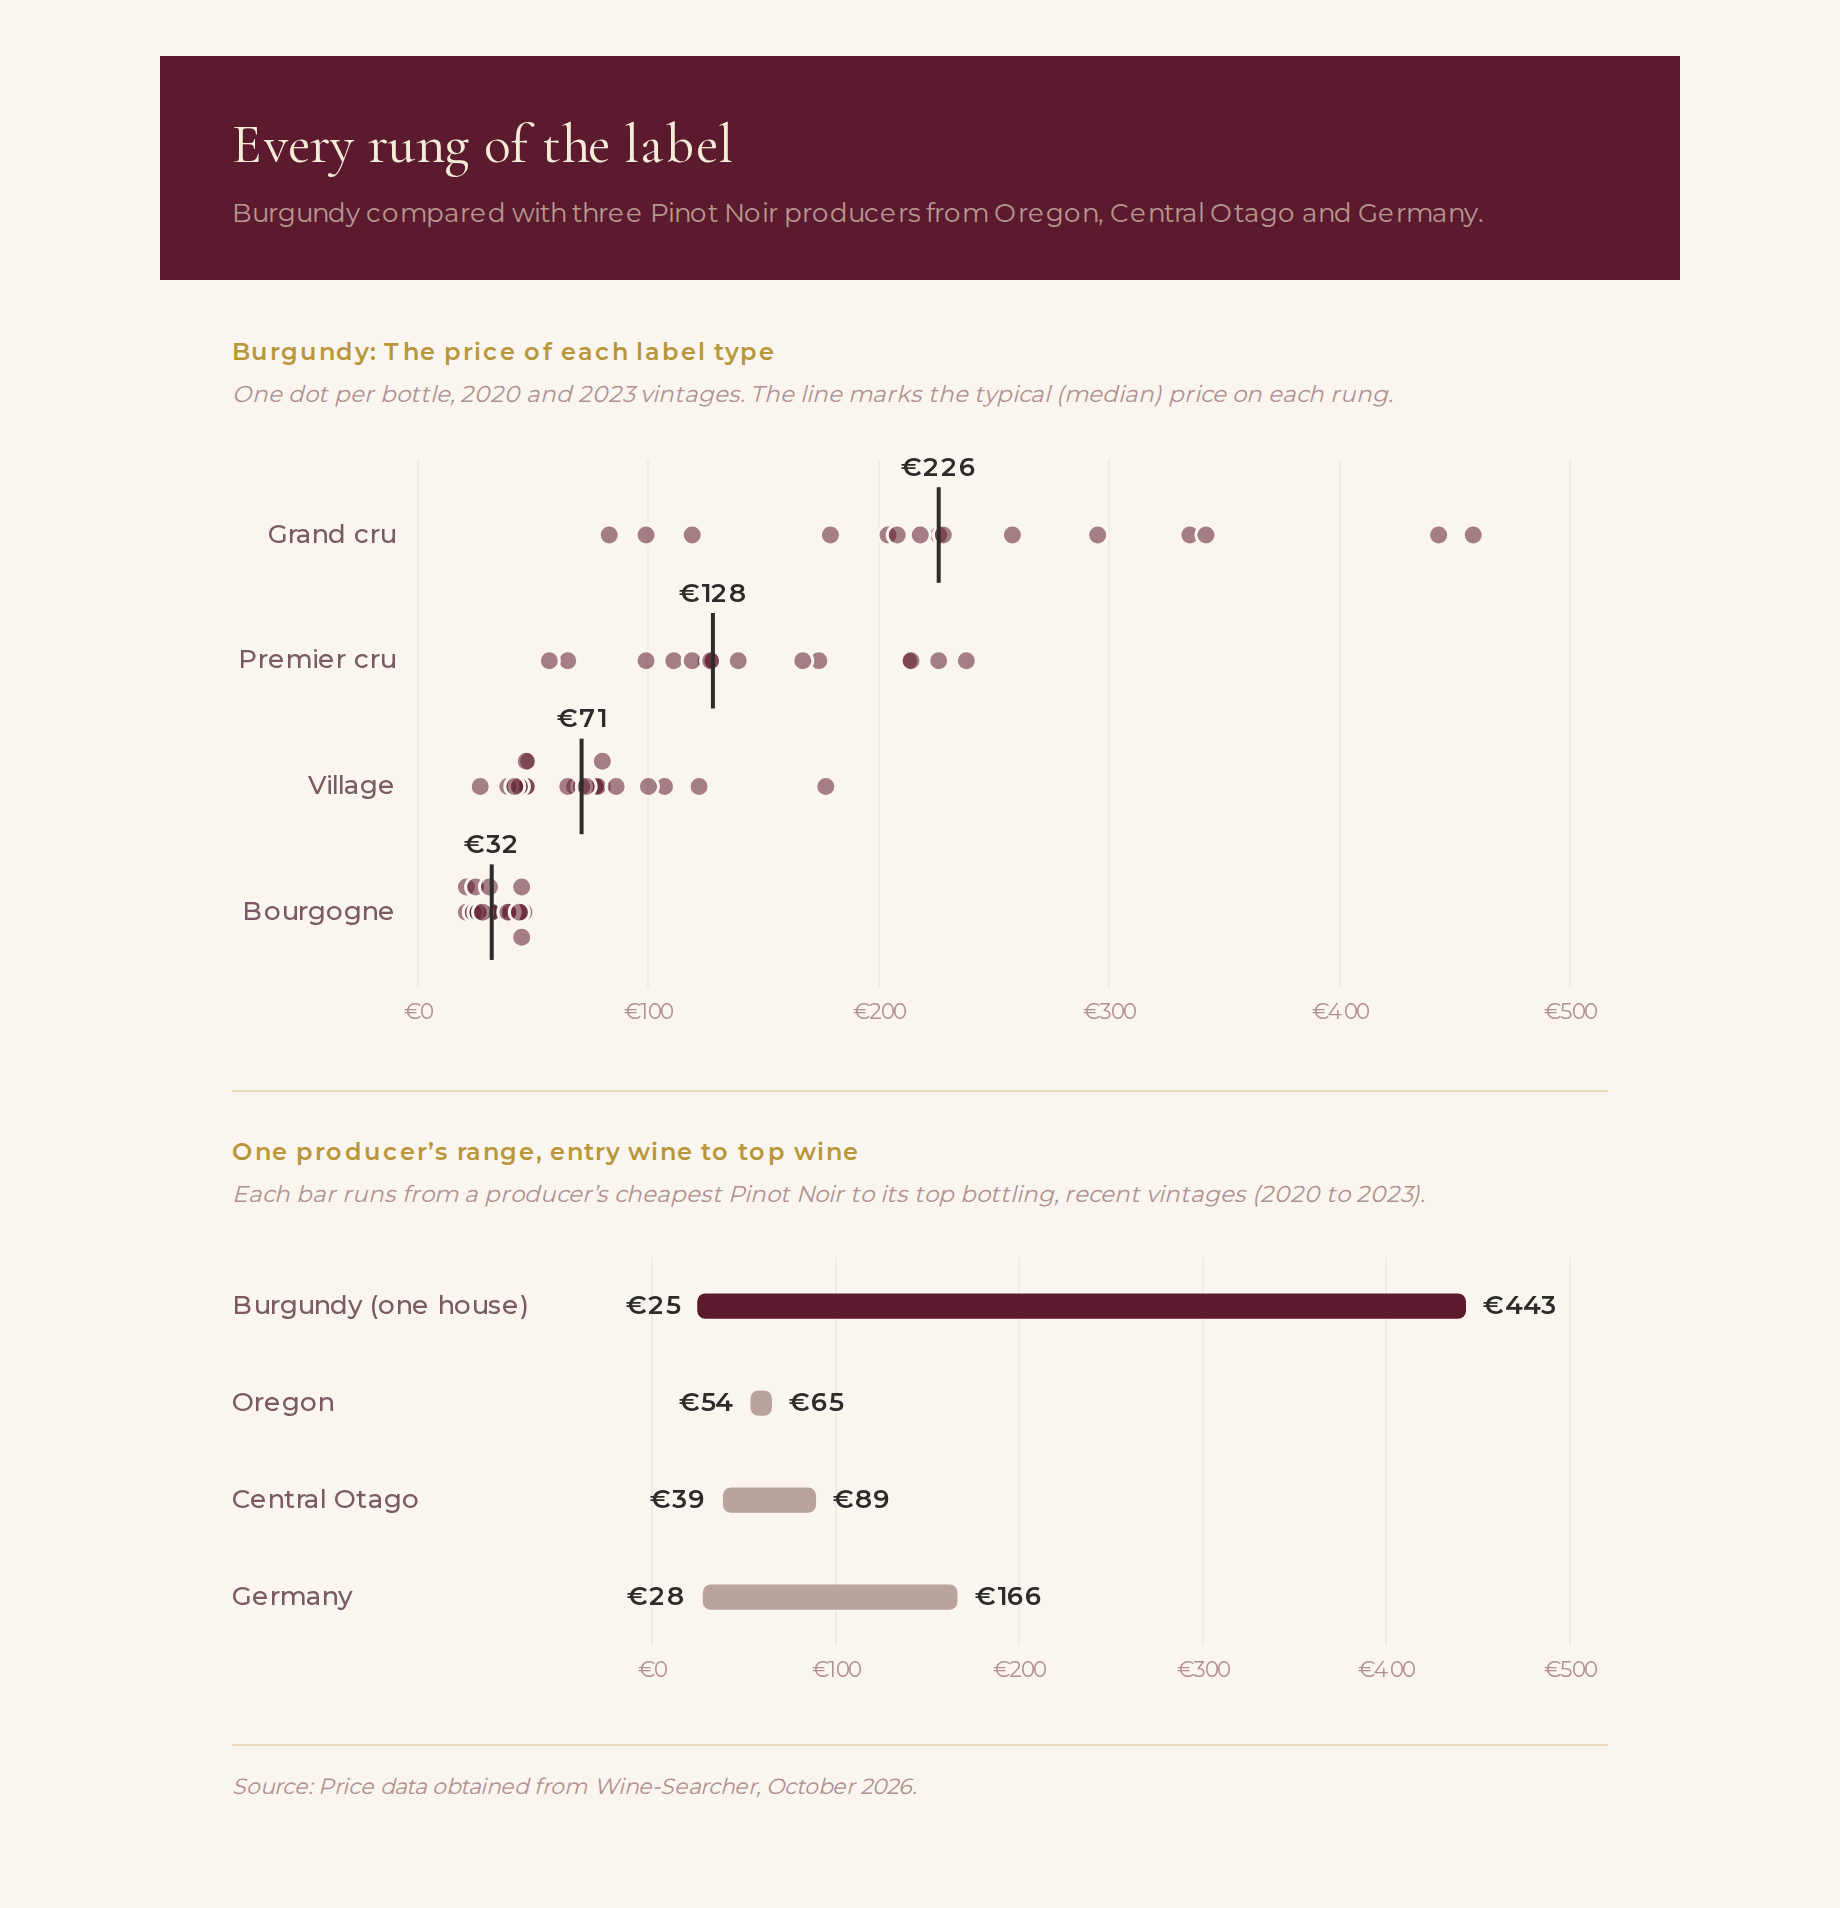
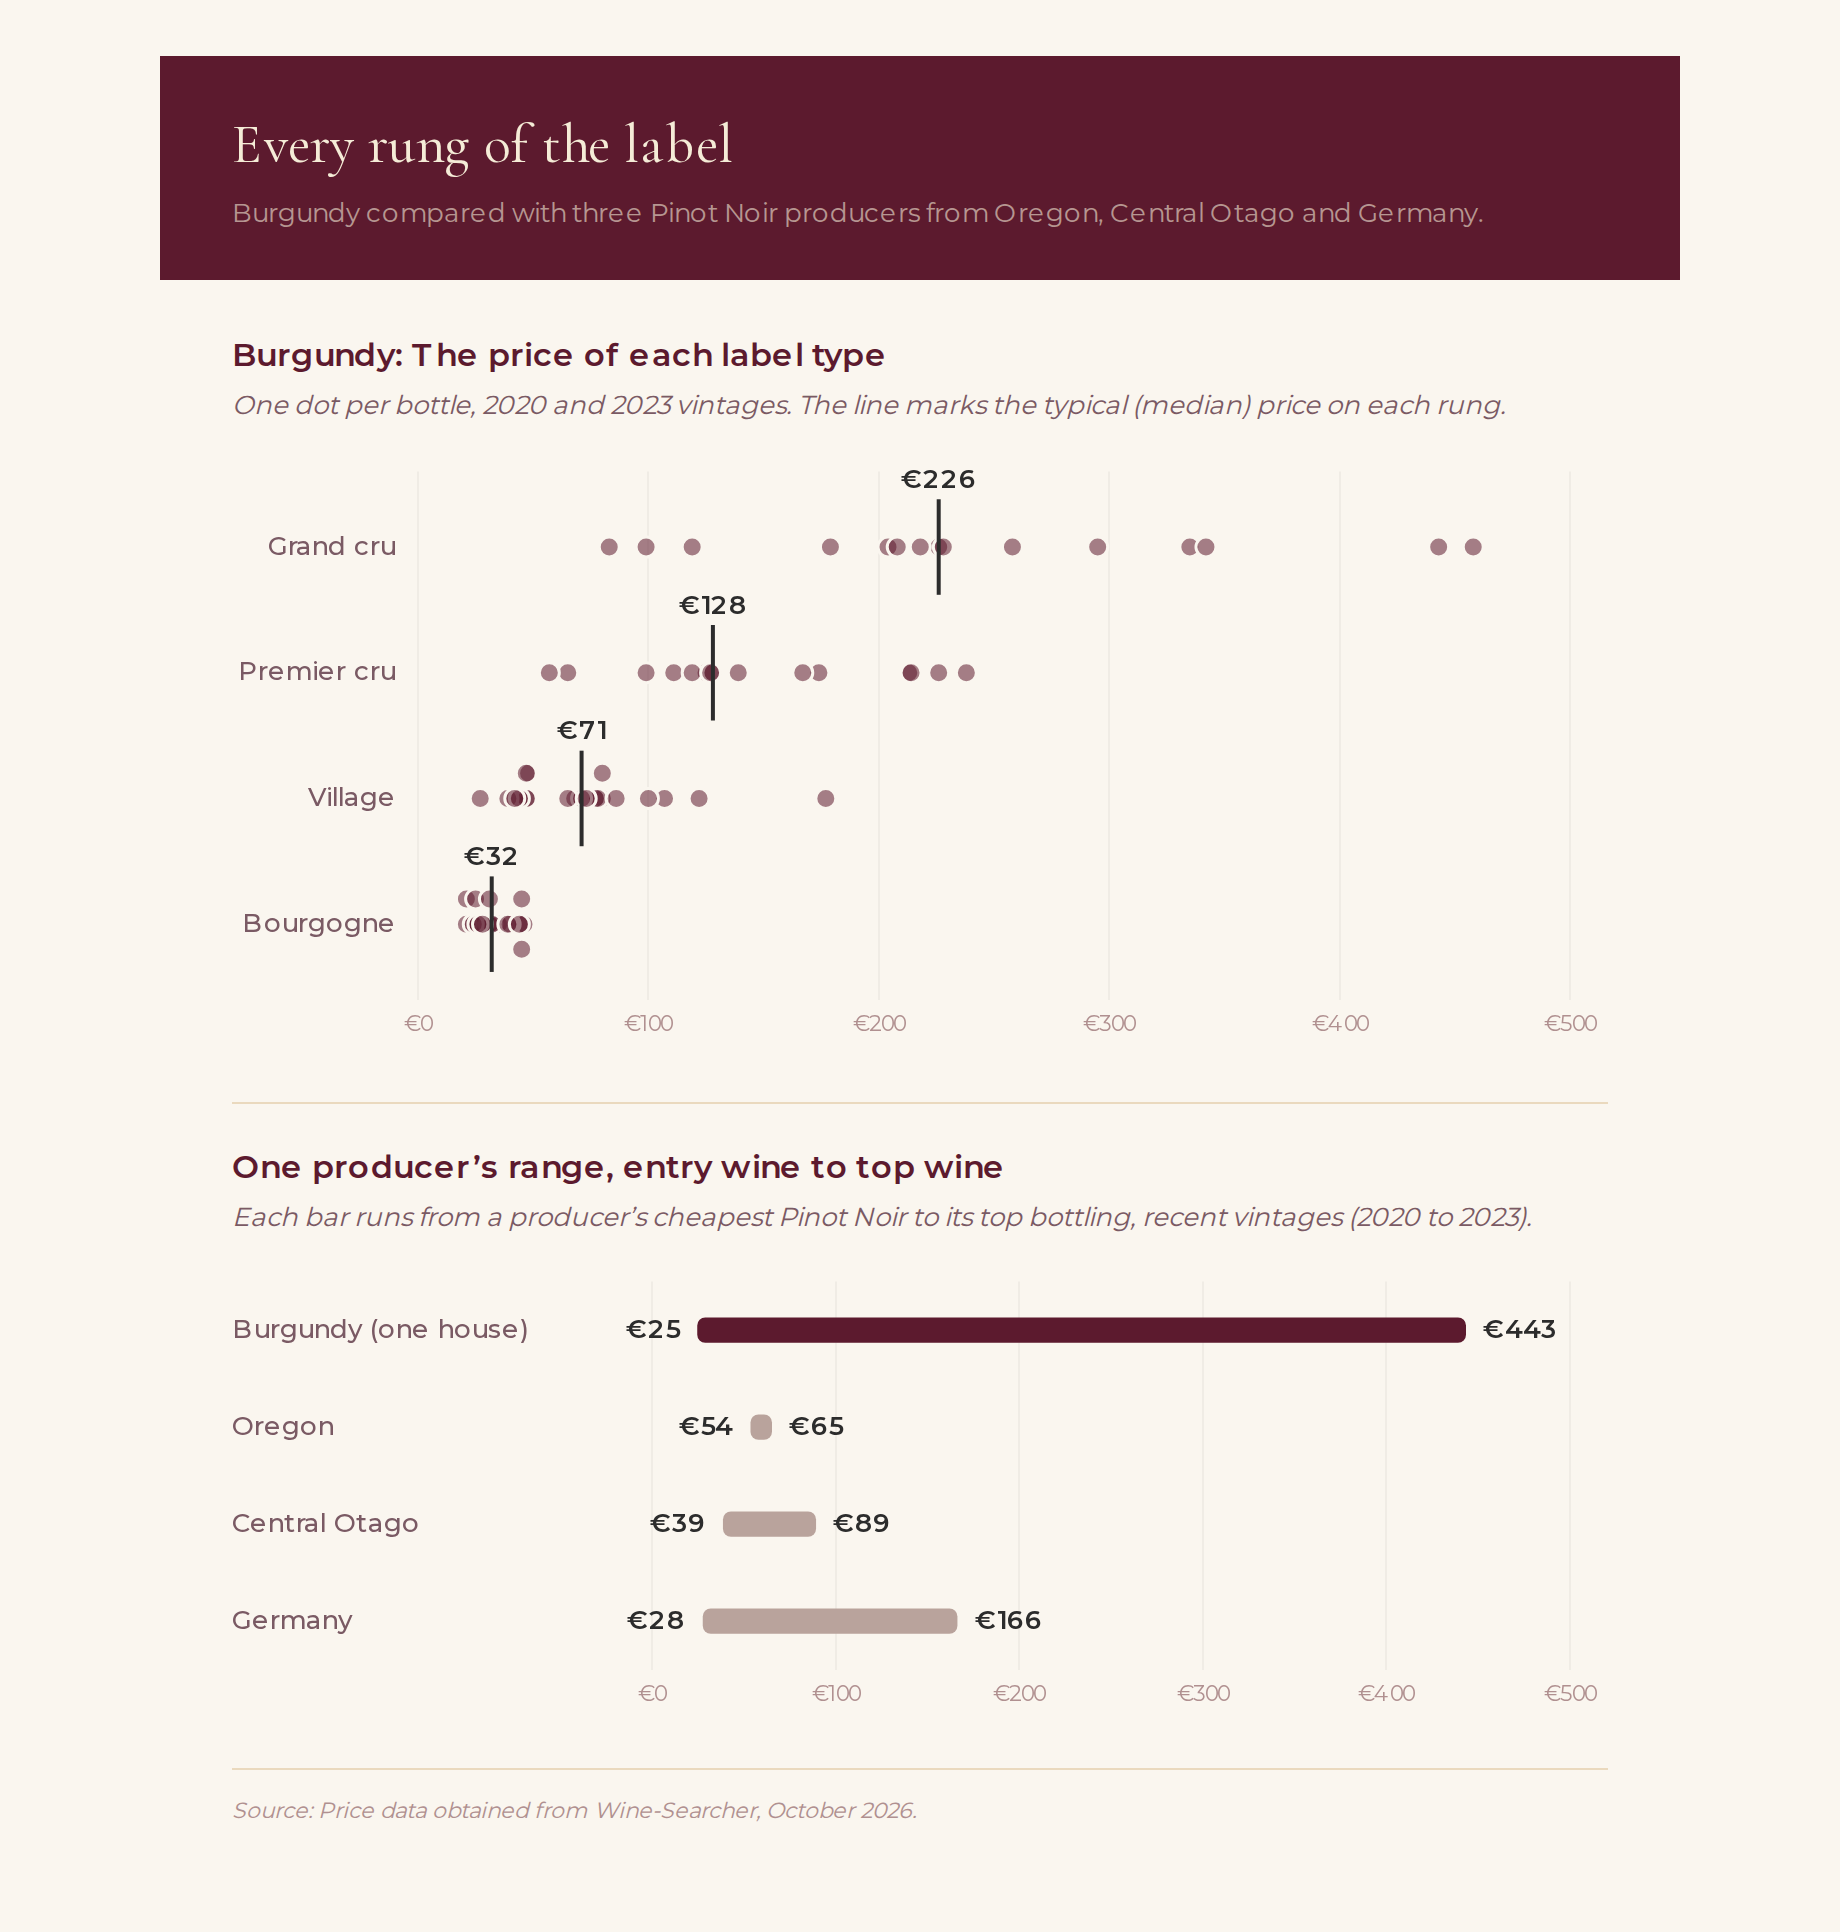
Short 01 visuals: clearer panel headers and captions
Price ladder panel headers go from 12 px gold to 16 px burgundy. Chart
captions in the three chart visuals go from 11.5 px pale grey to 13 px in
the darker mid tone, so they read clearly once scaled down in Substack.
Static images re-rendered and the two live interactives updated.

Claude-Session: https://claude.ai/code/session_017mQusZUvicXjRUQ8Ky54sx

diff --git a/Wine Substack/Short 01 - October 2026/visuals/visual_price_ladder.html b/Wine Substack/Short 01 - October 2026/visuals/visual_price_ladder.html
@@ -61,16 +61,16 @@
     }
 
     .panel-head {
-      font-size: 12px;
+      font-size: 16px;
       font-weight: 600;
-      letter-spacing: 0.5px;
-      color: var(--gold);
+      letter-spacing: 0.2px;
+      color: var(--burgundy);
       margin-bottom: 6px;
     }
 
     .chart-head {
-      font-size: 11.5px;
-      color: var(--light);
+      font-size: 13px;
+      color: var(--mid);
       font-style: italic;
       margin-bottom: 12px;
       line-height: 1.5;

diff --git a/visual_price_ladder.html b/visual_price_ladder.html
@@ -61,16 +61,16 @@
     }
 
     .panel-head {
-      font-size: 12px;
+      font-size: 16px;
       font-weight: 600;
-      letter-spacing: 0.5px;
-      color: var(--gold);
+      letter-spacing: 0.2px;
+      color: var(--burgundy);
       margin-bottom: 6px;
     }
 
     .chart-head {
-      font-size: 11.5px;
-      color: var(--light);
+      font-size: 13px;
+      color: var(--mid);
       font-style: italic;
       margin-bottom: 12px;
       line-height: 1.5;

diff --git a/Wine Substack/Short 01 - October 2026/visuals/visual_name_premium.html b/Wine Substack/Short 01 - October 2026/visuals/visual_name_premium.html
@@ -95,8 +95,8 @@
 
     /* ── Chart ── */
     .chart-head {
-      font-size: 11.5px;
-      color: var(--light);
+      font-size: 13px;
+      color: var(--mid);
       font-style: italic;
       margin-bottom: 14px;
       line-height: 1.5;

diff --git a/visual_name_premium.html b/visual_name_premium.html
@@ -95,8 +95,8 @@
 
     /* ── Chart ── */
     .chart-head {
-      font-size: 11.5px;
-      color: var(--light);
+      font-size: 13px;
+      color: var(--mid);
       font-style: italic;
       margin-bottom: 14px;
       line-height: 1.5;

diff --git a/Wine Substack/Short 01 - October 2026/visuals/visual_older_vintages.html b/Wine Substack/Short 01 - October 2026/visuals/visual_older_vintages.html
@@ -53,8 +53,8 @@
     }
 
     .chart-head {
-      font-size: 11.5px;
-      color: var(--light);
+      font-size: 13px;
+      color: var(--mid);
       font-style: italic;
       margin-bottom: 12px;
       line-height: 1.5;
